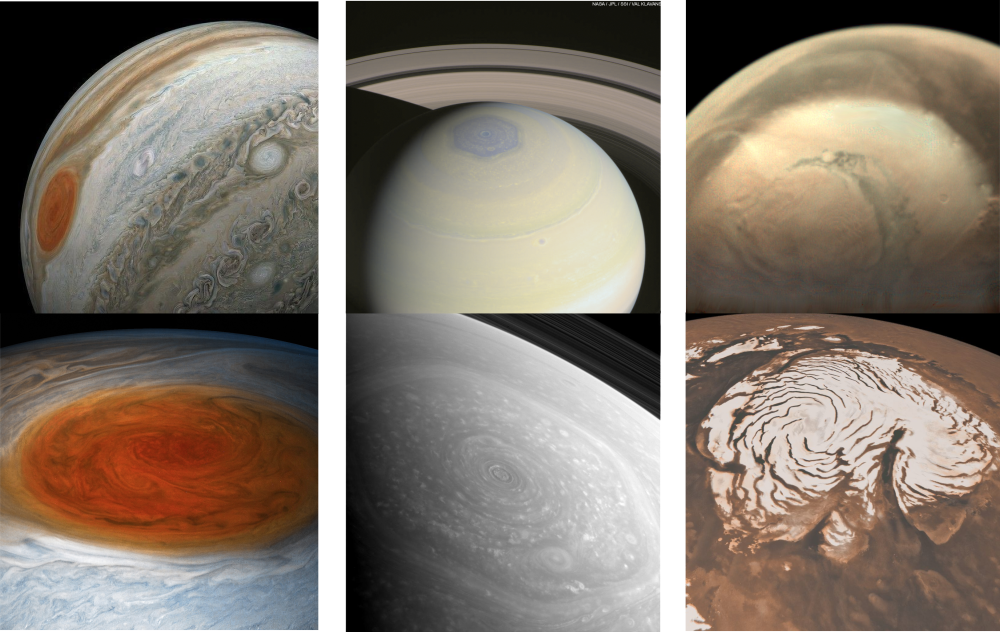
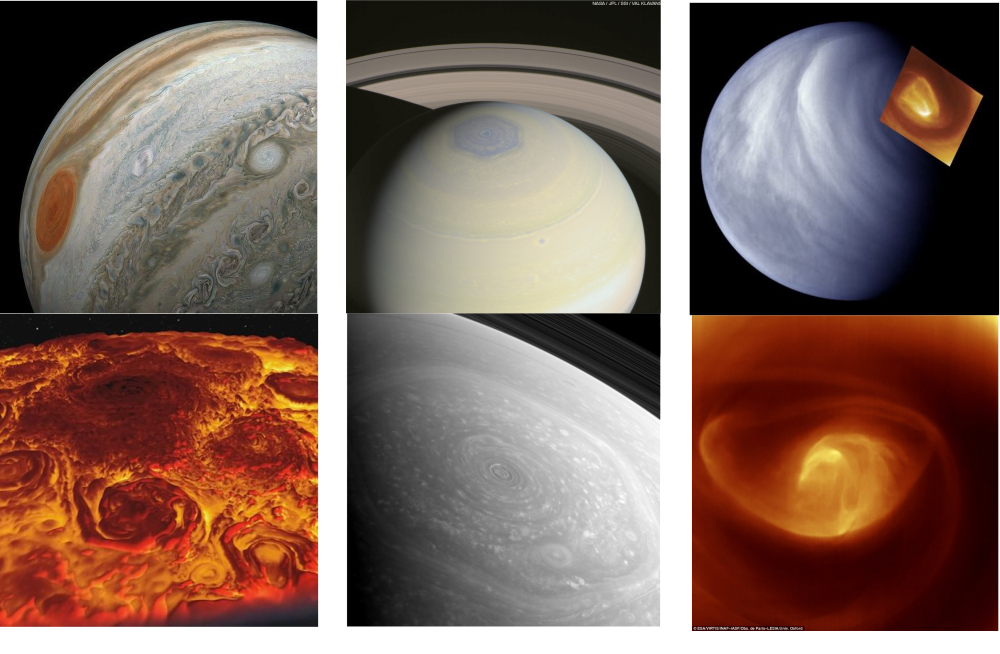
GO

diff --git a/en/matter.html b/en/matter.html
@@ -340,7 +340,7 @@ display: none;
 
 
 <!-- MAIN TEXT CONTENT of the Page
-  For footnotes, use these numbers:  ¹ ² ³ ⁴ ⁵ ⁶ ⁷ ⁸ ⁹ ⁶⁰  “ ” ³¹⁰ ²⁶ ⁴⁷ ⁵⁴ —
+  For footnotes, use these numbers:  ¹ ² ³ ⁴ ⁵ ⁶ ⁷ ⁸ ⁹ ⁶⁰  “ ” ³¹⁰ ²⁶ ⁴⁷ ⁵⁴ — —
 -->
 <div class="page-paragraph">
   <div class="ct-chapter-quote" style="width:100%;padding:20px;margin-top:30px;">
@@ -364,7 +364,7 @@ display: none;
 
 <div class="page-paragraph">
     <p id="en-2-3-01"><i>
-    Three hundred million years ago, Earth’s oceans were full of swimming swirls of spiraling matter.  Just as fish are everywhere in oceans today, so too were ammonites, a now extinct ancestor of modern mollusks, equally as ubiquitous.  Famous for its spiral fossil, the ammonite had much in common with the molusks of today.  Just like clams and oysters<a href="#footnotes" onclick="openFootnotes()" title="Fodrie FJ, Rodriguez AB,Gittman RK, Grabowski JH, Lindquist NL,Peterson CH, Piehler MF, Ridge JT. 2017 Oysterreefs as carbon sources and sinks.Proc. R. Soc.B284: 20170891.http://dx.doi.org/10.1098/rspb.2017.0891">⁷⁹</a>, the ammonite sieved loose particles of carbon and calcium out of the water to make its shell.  And just like other mollusks, its defecations, shell and corpse would inevitably sink.  Over time, the relentless rain of ammonite matter, accompanied by the carcasses of other marine creatures and their excretions, all accumulated on the ocean floor.  As layer upon layer of pressed down upon another, all the matter that an ammonite had gathered was compacted into stone. Over millions of years, the lives of billions of ammonites and trillions of other marine creatures spun countless tons of bicarbonate into geological sequestration.  If the material management of modern mollusks are any indication, over time, the ammonite's relentless subtraction and sequestration into what are today vast limestone deposits helped reduce carbon content of the oceans.  This played in turn reduce the ocean's acidity-- a key role in making the waters more hospitable homes for countless other creatures to thrive.</i>
+    Three hundred million years ago, Earth’s oceans were full of swimming swirls of spiraling matter.  Just as fish are everywhere in oceans today, so too were ammonites-- a now extinct mollusk.  Well known for its spiral shell, the ammonite had much in common with the mollusks of today.  Like clams and oysters, during its life the ammonite sieved loose particles of carbon and calcium out of the water to make its shell.  And just like other mollusks, in death, its shell and corpse would inevitably sink down to the ocean floor<a href="#footnotes" onclick="openFootnotes()" title="Fodrie FJ, Rodriguez AB,Gittman RK, Grabowski JH, Lindquist NL,Peterson CH, Piehler MF, Ridge JT. 2017 Oysterreefs as carbon sources and sinks.Proc. R. Soc.B284: 20170891.http://dx.doi.org/10.1098/rspb.2017.0891">⁷⁹</a>.  Generation after generation, the relentless rain of ammonite matter, accompanied by the carcasses and defecations of other marine creatures steadily accumulated.  As more and more biomass pressed down itself, all the matter that an ammonite had gathered over the course of its life was compacted into stone. Over countless life-cycles, the lives of billions of ammonites and trillions of other marine creatures inexorably swirled countless tons of carbon and calcium into geological sequestration, leaving a legacy of vast fields of limestone all around the planet.</i>
      </p></div>
     <br><br>
      <div id="line" style="margin-bottom: 30px;"></div>
@@ -376,35 +376,49 @@ display: none;
       
       And by understanding their human example, we gain a new perspective to evaluate our failed attempts to to manage our matter in a truly green way: in particular the modern vitues of "net-zero" and "zero-waste".  However,-->
 
-      TODAY, in its fossilized form, we can hold an ammonite's ecological contribution in the palm of our hand.  Just like today's mollusks<a href="#footnotes" onclick="openFootnotes()" title="The Carbon Sequestration Potential of Shellfish, The Fish Site, February 2009 https://thefishsite.com/articles/carbon-sequestration-potential-of-shellfish">⁸⁰</a>, the way that an ammonite crafted its own home, also crafted a hospitable habitat for its fellow creatures.  It is an example that illustrates and illuminates our third Earthen ethic.  In our last chapter, we saw how the outward spin of <i>energy</i> is characteristic of Earth’s pattern.  Now, looking closely at the manner of the mollusks, we can discern another characteristic spiral-- a  tendency to steadily spin the principal elements of a system into concentration and sequestration.  As we shall see, it is a pattern that mirror's Earth's enriching systems and that helped transition our planet from barren to biosphere. Through the lens of this third Earthen ethic, we can deepen our appreciation of the ecological enrichment wrought by the Igorots and other kincentric cultures.  Inspired by their culture and accomplishment, we too can follow Earth's example to be sure the way our processes, products and systems manage their carbon and other elements are truly are green.</p>
+      TODAY, in its fossilized form, we can hold an ammonite's ecological contribution in the palm of our hand.  The carbon that an ancient ammonite helped to sequester millions of years ago, helped to reduce the ocean's net carbon content, and consequently its acidity— a key role in making the waters more hospitable homes for countless other creatures to thrive.  The way that the ammonite (and modern mollusks<a href="#footnotes" onclick="openFootnotes()" title="The Carbon Sequestration Potential of Shellfish, The Fish Site, February 2009 https://thefishsite.com/articles/carbon-sequestration-potential-of-shellfish">⁸⁰</a>) crafted their own home, while also making their habitat more hospitable other creatures, is an example that illustrates and illuminates our third Earthen ethic.  In our last chapter, we saw how the outward spin of <i>energy</i> is characteristic of Earth’s pattern.  Now, looking closely at the manner of the mollusks, we can discern another characteristic spiral— a  tendency to steadily spin the principal elements of a system into concentration and sequestration.  As we shall see, it is a pattern that mirror's Earth's own transition from barren to biosphere. Through the lens of this third Earthen ethic, we can deepen our appreciation of the ecological enrichment wrought by the Igorots.  Inspired by their ecological ethic, we too can follow Earth's example to be sure the way our processes, products and systems manage their carbon and other elements are truly are green.</p>
       </div>
 
     <div class="page-paragraph">
 
-      <p id="en-2-3-03">To start, let us return once again to Earth's primordial beginings.</p>
+      <p id="en-2-3-03">To start, let us return once again to Earth's primordial beginnings.</p>
 
-      <p id="en-2-3-04">As we saw in Earth's <a href="stellar.html">stellar story</a>, five billion years ago, the planet's of our solar systems came to be as interstellar debris steadily swirled together into spheres of matter.  While this process may have begun long, long ago, each planet's process of coalescence has yet to cease.  As asteroids continue to be attracted and meteors continue to fall, the geology, atmosphere and ocean of every planet is churned– enthralled by the ceaseless shine of the sun.  <a href="#footnotes" onclick="openFootnotes()" title="‘The world is a vampire’ as The Smashing Pumpkins sang: a vampire living from the death of the sun. The universe must die to keep living.” Thomas Nail (2021), Theory of the Earth, Standford University Press.">⁸¹</a></p>
+      <p id="en-2-3-04">As we saw in Earth's <a href="stellar.html">stellar story</a>, five billion years ago, the planets of our solar systems came to be as interstellar debris steadily swirled together into spheres of matter.  While this process may have begun long, long ago, each planet's process of coalescence has yet to cease.  As asteroids continue to be attracted and meteors continue to fall, the geology, atmosphere and ocean of every planet continues to churn– enthralled by the ceaseless shine of the sun.  <a href="#footnotes" onclick="openFootnotes()" title="‘The world is a vampire’ as The Smashing Pumpkins sang: a vampire living from the death of the sun. The universe must die to keep living.” Thomas Nail (2021), Theory of the Earth, Standford University Press.">⁸¹</a></p>
 
-      <!--IMAGE OF PLANETS-->
+      <!--IMAGE OF PLANETS 1-->
       <div class="chart-image-desktop">
         <img src="../photos/planet-vortexes.png" style="width:100%" alt="Spirals of matter with geometry unique to their planet form on Saturn, Jupiter and Mars.">
               
-        <div class="chart-caption" ><b>Figure 1:</b> Unique spiral geometries form on Saturn, Jupiter and Mars as a result of each planet's cosmological character.</div>
+        <div class="chart-caption" ><b>Figure 1:</b> Unique spiral geometries form on Jupiter, Saturn and Venus as a result of each planet's cosmological character.</div>
       </div>
 
       <div class="chart-image-mobile">
-        <img src="../photos/planet-vortexes-mobile.png" style="width:100%" alt="Spirals of matter with geometry unique to their planet form on Saturn, Jupiter and Mars.">
+        <img src="../photos/planet-vortexes.png" style="width:100%" alt="Spirals of matter with geometry unique to their planet form on Saturn, Jupiter and Mars.">
               
-        <div class="chart-caption" ><b>Figure 1:</b>  Unique spiral geometries form on Saturn, Jupiter and Mars as a result of each planet's cosmological character.</div>
+        <div class="chart-caption" ><b>Figure 1:</b> Unique spiral geometries form on Jupiter, Saturn and Venus as a result of each planet's cosmological character.</div>
       </div>
-      <!--IMAGE OF PLANETS-->
+      <!--CLOSE IMAGE OF PLANETS 1-->
 
-      <p id="en-2-3-06">However, on each planet, the movement of matter, as it is driven to dissipate the Sun's energy, is unique.  Propelled by each planet's characteristic configuration of orbit, spin, chemistry, magnetosphere, mass, momentum and more, vortexes unfold with their own unique geometric character (see Figure 1). </p>
+      <p id="en-2-3-06">However, on each planet, the movement of matter, as it is driven to dissipate the Sun's energy, is unique.  Propelled by each planet's configuration of orbit, spin, chemistry, magnetosphere, mass, momentum and more, vortexes unfold with varying levels of definition and clarity— and with their own unique geometric character. </p>
       
-      <p>On Venus's poles, sulfuric acid clouds form dipolar vortexes.  On Jupiter pentagonal vortex patterns of hydrogen and helium can be clearly observed.  On Saturn hexagonal hydrogen vortexes persist on each pole.  Indeed, the way each planet spirals its primary elements is a direct reflection of its unique  </p>
+      <p id="en-2-3-07">On Jupiter, gases readily spin together in distinctly whispy spirals, while on its north pole, there are eight vortices surrounding a central vortex, and at the south pole there are six (see figure 1, column 1)<a href="#footnotes" onclick="openFootnotes()" title="'From its pole-to-pole orbit, the Juno spacecraft discovered arrays of cyclonic vortices in polygonal patterns around the poles of Jupiter. In the north, there are eight vortices around a central vortex, and in the south there are five.' Cheng Li, Andrew P. Ingersoll, Alexandra P. Klipfel, and Harriet Brettle, 'Modeling the stability of polygonal patterns of vortices at the poles of Jupiter as revealed by the Juno spacecraft' (September 8, 2020) PNAS Vol. 117 | No. 39">⁸2</a>.   On Saturn, although vortexes are much less defined, on its poles, hydrogen and helium spin in a giant hexagonal storm (see figure 1, column 2).  On Venus a dipolar vortex spins its thick sulfuric acid atmosphere (see fig.1 column 3). On Mars and Neptune, matter spirals but with a barely distinct geometry.</p>
+
+        <!--IMAGE OF PLANETS 2-->
+        <div class="chart-image-desktop">
+          <img src="../photos/planet-vortexes-2.png" style="width:100%" alt="Unique spiral geometries form on Earth, Mars and Nepture as a result of each planet's cosmological character.">
+                
+          <div class="chart-caption" ><b>Figure 2:</b> Unique spiral geometries form on Earth, Mars and Nepture as a result of each planet's cosmological character.</div>
+        </div>
+  
+        <div class="chart-image-mobile">
+          <img src="../photos/planet-vortexes-2.png" style="width:100%" alt="Unique spiral geometries form on Earth, Mars and Nepture as a result of each planet's cosmological character.">
+                
+          <div class="chart-caption" ><b>Figure 2:</b> Unique spiral geometries form on Earth, Mars and Nepture as a result of each planet's cosmological character.</div>
+        </div>
+        <!--CLOSE IMAGE OF PLANETS-->
       
      
-     <p id="en-2-3-07">Meanwhile, on Earth, the unique combination of carbon, oxygen and hydrogen spin with their own characteristic Earthen spiral.</p>
+     <p id="en-2-3-07b">Meanwhile, on Earth, the unique combination of carbon, oxygen and hydrogen spin with their own characteristic Earthen spiral.</p>
 
      <p id="en-2-3-08">As we saw in Earth's stellar story, the thermodynamic imperative of dissipation, compelled its carbon to come together into more and more complex systems.  Steadily, as early systems unfurled, they gathered the abundant loose carbon from the atmosphere to unfold ever more effective energetic cycles and material forms out the readily available elements.</p>
      
@@ -519,14 +533,28 @@ display: none;
 
       <div id="footnotes-reveal" style="height:200px; overflow-y: clip; transition:0.4s;margin-bottom:0px;transition-delay: 0.4s;">
       
-        <a href="#en-2-3-05" class="footnote">   
-        <div class="footnote-number">77.</div>
+
+        <a href="#en-2-3-01" class="footnote">  
+          <div class="footnote-number">79.</div>
+          <div class="footnote-text">Fodrie FJ, Rodriguez AB,Gittman RK, Grabowski JH, Lindquist NL,Peterson CH, Piehler MF, Ridge JT. 2017 Oysterreefs as carbon sources and sinks.Proc. R. Soc.B284: 20170891.http://dx.doi.org/10.1098/rspb.2017.0891</div>
+          </a>
+
+     
+          <a href="#en-2-3-02" class="footnote">   
+            <div class="footnote-number">80.</div>
+            <div class="footnote-text">"The Carbon Sequestration Potential of Shellfish, The Fish Site, February 2009 https://thefishsite.com/articles/carbon-sequestration-potential-of-shellfish"</div>
+            </a>
+          
+
+
+        <a href="#en-2-3-04" class="footnote">   
+        <div class="footnote-number">81.</div>
         <div class="footnote-text">"'The world is a vampire' as The Smashing Pumpkins sang: a vampire living from the death of the sun. The universe must die to keep living.” Thomas Nail (2021), Theory of the Earth, Standford University Press.</div>
         </a>
 
-        <a href="#59-up" class="footnote">   
-        <div class="footnote-number">78.</div>
-        <div class="footnote-text"><i>A History of Atmosphere CO2 and its Effects on Plants, Animals and Ecosystems</i> by James R. Ehleringer et al., University of Utah, 2005. </div>
+        <a href="#en-2-3-07" class="footnote">   
+        <div class="footnote-number">82.</div>
+        <div class="footnote-text"><i>'From its pole-to-pole orbit, the Juno spacecraft discovered arrays of cyclonic vortices in polygonal patterns around the poles of Jupiter. In the north, there are eight vortices around a central vortex, and in the south there are five.' Cheng Li, Andrew P. Ingersoll, Alexandra P. Klipfel, and Harriet Brettle (September 8, 2020) <i>Modeling the stability of polygonal patterns of vortices at the poles of Jupiter as revealed by the Juno spacecraft</i>, PNAS Vol. 117 | No. 39</div>
         </a>
 
         <a href="#60-up" class="footnote">   
